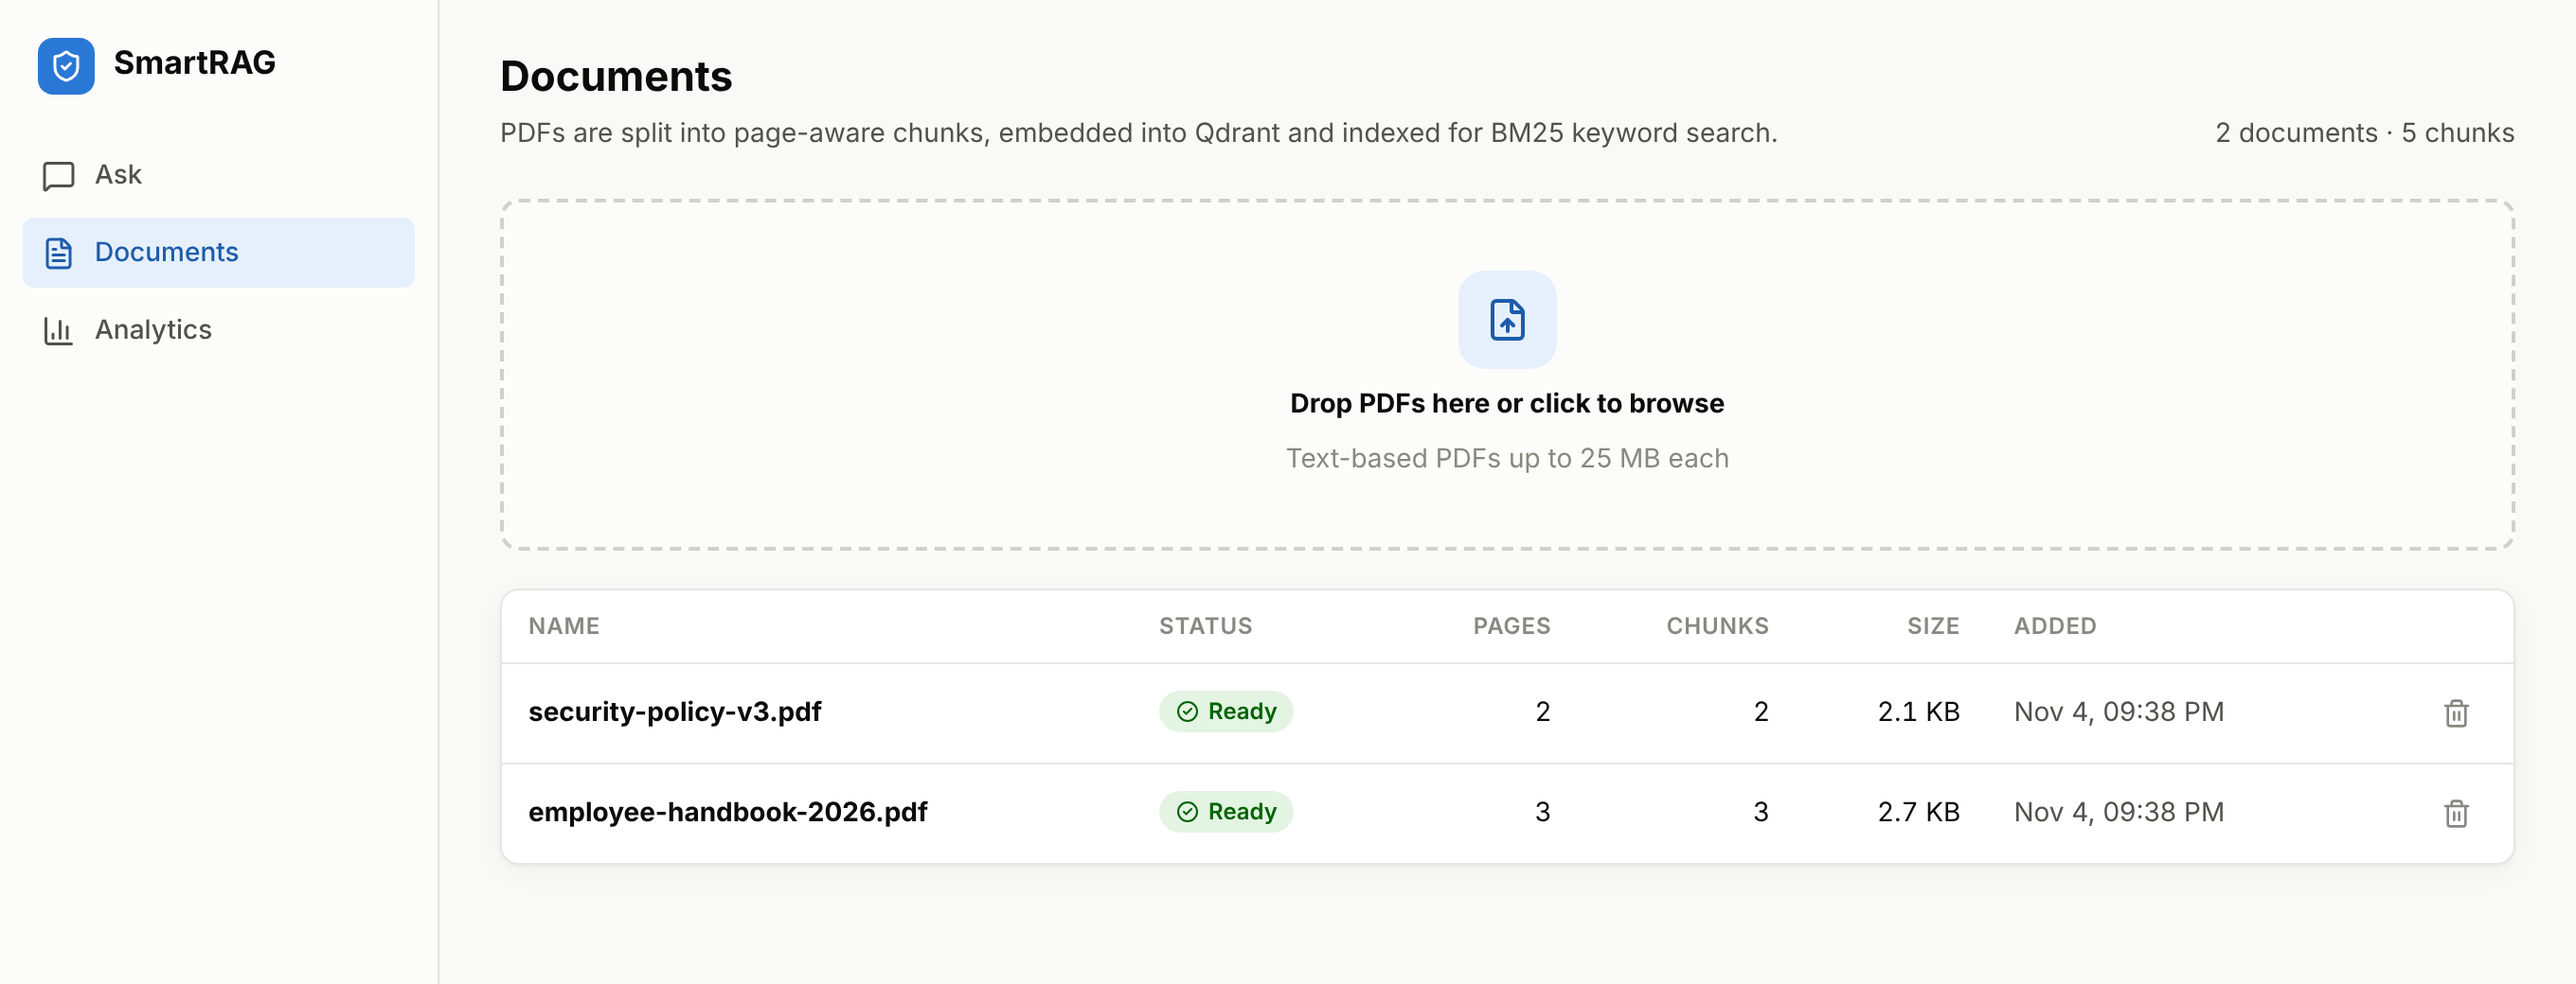
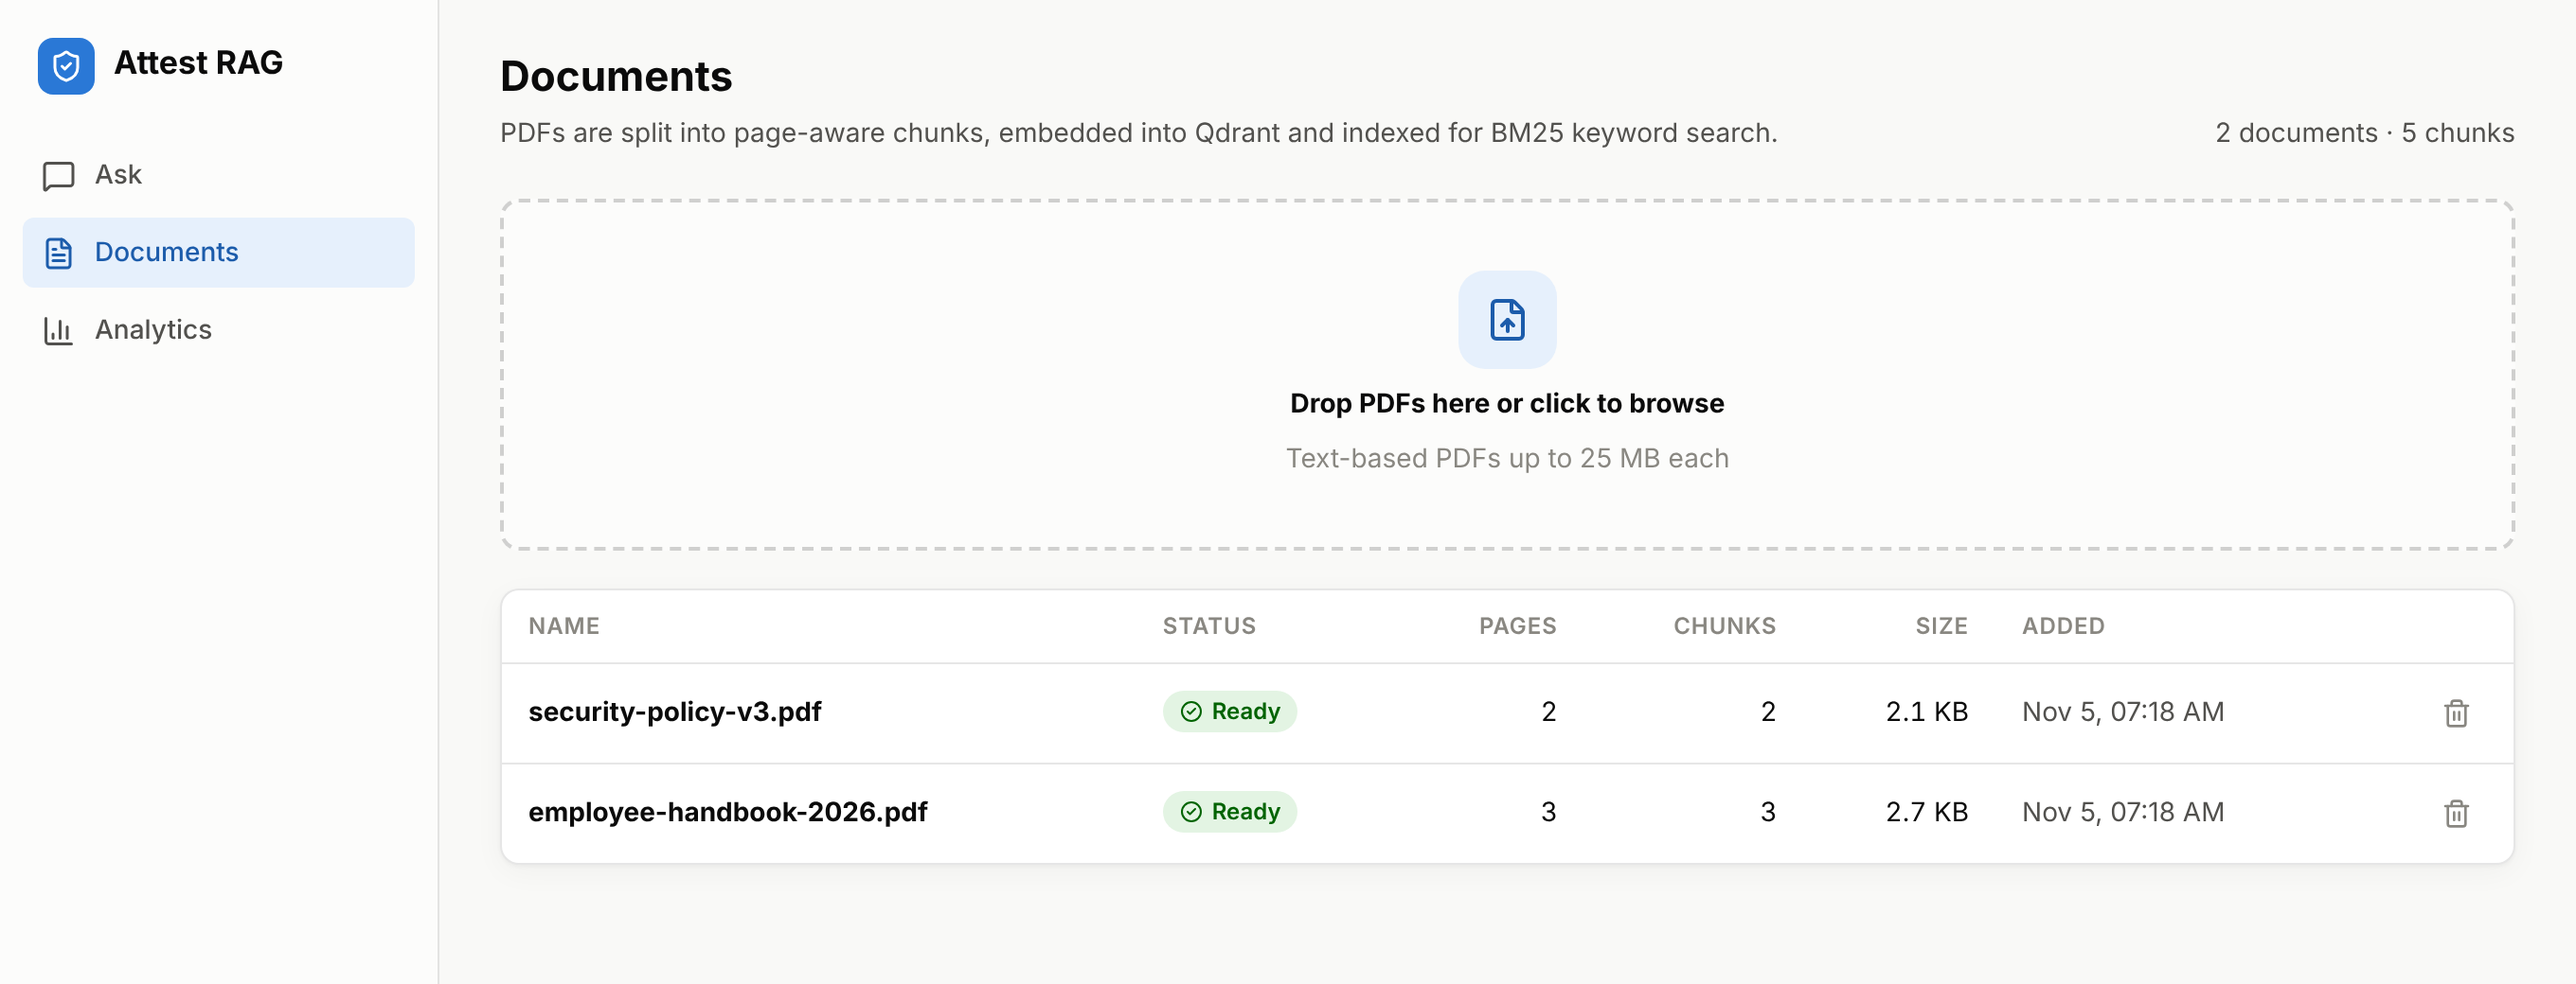
Rename project from SmartRAG to Attest RAG
Update branding across the UI, API title, LLM system prompt, README,
screenshots, package names, docker-compose project, default database
credentials, Qdrant collection and CI/CD workflow definitions.

Claude-Session: https://claude.ai/code/session_011Cba5xVRrxfj8gLr9rzuqS

diff --git a/frontend/index.html b/frontend/index.html
@@ -4,8 +4,8 @@
     <meta charset="UTF-8" />
     <meta name="viewport" content="width=device-width, initial-scale=1.0" />
     <link rel="icon" type="image/svg+xml" href="/favicon.svg" />
-    <meta name="description" content="SmartRAG - enterprise document Q&A with verified answers" />
-    <title>SmartRAG</title>
+    <meta name="description" content="Attest RAG - enterprise document Q&A with verified answers" />
+    <title>Attest RAG</title>
   </head>
   <body>
     <div id="root"></div>

diff --git a/frontend/src/components/Layout.tsx b/frontend/src/components/Layout.tsx
@@ -38,7 +38,7 @@ export default function Layout() {
           <span className="brand-mark">
             <ShieldCheck size={18} />
           </span>
-          SmartRAG
+          Attest RAG
         </div>
         {NAV.map(({ to, label, icon: Icon, end }) => (
           <NavLink key={to} to={to} end={end} className="nav-link">

diff --git a/frontend/src/lib/useChat.ts b/frontend/src/lib/useChat.ts
@@ -26,7 +26,7 @@ export interface AssistantMessage {
 export type Message = UserMessage | AssistantMessage;
 
 function sessionId(): string {
-  const KEY = "smartrag.session";
+  const KEY = "attest-rag.session";
   try {
     const existing = sessionStorage.getItem(KEY);
     if (existing) return existing;

diff --git a/backend/app/core/config.py b/backend/app/core/config.py
@@ -16,7 +16,7 @@ class Settings(BaseSettings):
     )
 
     # --- General -----------------------------------------------------------
-    app_name: str = "SmartRAG"
+    app_name: str = "Attest RAG"
     environment: str = "development"
     log_level: str = "INFO"
     cors_origins: Annotated[list[str], NoDecode] = Field(
@@ -34,10 +34,10 @@ class Settings(BaseSettings):
     llm_temperature: float = 0.1
 
     # --- Storage -----------------------------------------------------------
-    database_url: str = "postgresql+asyncpg://smartrag:smartrag@localhost:5432/smartrag"
+    database_url: str = "postgresql+asyncpg://attestrag:attestrag@localhost:5432/attestrag"
     qdrant_url: str = "http://localhost:6333"
     qdrant_api_key: str | None = None
-    qdrant_collection: str = "smartrag_chunks"
+    qdrant_collection: str = "attestrag_chunks"
 
     # --- Ingestion ---------------------------------------------------------
     chunk_size: int = 1000

diff --git a/backend/app/main.py b/backend/app/main.py
@@ -28,7 +28,7 @@ def create_app(
         await services.startup()
         app.state.services = services
         logger.info(
-            "SmartRAG ready (provider=%s, guardrail_mode=%s, judge=%s)",
+            "Attest RAG ready (provider=%s, guardrail_mode=%s, judge=%s)",
             settings.llm_provider,
             settings.guardrail_mode,
             settings.judge_enabled,
@@ -39,7 +39,7 @@ def create_app(
             await services.shutdown()
 
     app = FastAPI(
-        title="SmartRAG API",
+        title="Attest RAG API",
         version="1.0.0",
         description="Enterprise document QA with hybrid retrieval and LLM-as-a-Judge evaluation.",
         lifespan=lifespan,

diff --git a/backend/app/services/generation.py b/backend/app/services/generation.py
@@ -14,7 +14,7 @@ from app.services.types import RetrievedChunk
 
 NO_ANSWER = "I couldn't find information about that in the uploaded documents."
 
-SYSTEM_PROMPT = """You are SmartRAG, an enterprise document assistant.
+SYSTEM_PROMPT = """You are Attest RAG, an enterprise document assistant.
 
 Answer the user's question using ONLY the numbered context passages provided.
 Rules:

diff --git a/README.md b/README.md
@@ -1,8 +1,8 @@
-# SmartRAG
+# Attest RAG
 
 **Ask questions about your company's PDFs and get answers you can trust, with every claim cited to its source page and checked by an AI judge before you see it.**
 
-SmartRAG is an end-to-end enterprise document Q&A platform. Upload policies, contracts, manuals or reports; ask questions in plain language; get a streamed answer with clickable citations. Behind the scenes, a **hybrid retrieval pipeline** (Qdrant dense vectors + BM25 keyword search) finds the right passages. A second model, the **LLM-as-a-Judge**, then grades every answer for **faithfulness, context relevance and toxicity** and withholds the ones that fail. Every question, source and score is logged to **PostgreSQL** and shown on an **analytics dashboard**.
+Attest RAG is an end-to-end enterprise document Q&A platform. Upload policies, contracts, manuals or reports; ask questions in plain language; get a streamed answer with clickable citations. Behind the scenes, a **hybrid retrieval pipeline** (Qdrant dense vectors + BM25 keyword search) finds the right passages. A second model, the **LLM-as-a-Judge**, then grades every answer for **faithfulness, context relevance and toxicity** and withholds the ones that fail. Every question, source and score is logged to **PostgreSQL** and shown on an **analytics dashboard**.
 
 ![Chat with streamed answer, inline citations, judge verdict and sources](docs/screenshots/chat.png)
 
@@ -10,11 +10,11 @@ SmartRAG is an end-to-end enterprise document Q&A platform. Upload policies, con
 
 ---
 
-## Why SmartRAG?
+## Why Attest RAG?
 
 Plain chatbots over documents have three problems in a business setting:
 
-| Problem | How SmartRAG handles it |
+| Problem | How Attest RAG handles it |
 |---|---|
 | **They miss things.** Vector search alone fails on exact terms like policy codes, clause numbers, product SKUs and names. | **Hybrid retrieval**: semantic search (OpenAI `text-embedding-3-small` in Qdrant) **plus** BM25 keyword search, merged with Reciprocal Rank Fusion. |
 | **They make things up.** LLMs can state plausible facts that are nowhere in your documents. | **LLM-as-a-Judge** checks every answer against the retrieved passages and **blocks** hallucinated or toxic answers before delivery. |
@@ -67,8 +67,8 @@ Plain chatbots over documents have three problems in a business setting:
 You need [Docker](https://docs.docker.com/get-docker/) with the Compose plugin.
 
 ```bash
-git clone https://github.com/maaz7409/SmartRAG.git
-cd SmartRAG
+git clone https://github.com/maaz7409/attest-rag.git
+cd attest-rag
 cp .env.example .env
 # edit .env and set OPENAI_API_KEY=sk-...
 docker compose up --build
@@ -78,7 +78,7 @@ Then open:
 
 | URL | What |
 |---|---|
-| http://localhost:3000 | SmartRAG web app |
+| http://localhost:3000 | Attest RAG web app |
 | http://localhost:8000/docs | Interactive API documentation (Swagger) |
 | http://localhost:6333/dashboard | Qdrant web UI |
 
@@ -120,7 +120,7 @@ npm run dev                              # http://localhost:5173 (proxies /api t
 
 ```bash
 cd backend && pytest -q                  # 37 tests: SQLite + in-memory Qdrant by default
-TEST_DATABASE_URL=postgresql+asyncpg://user:pass@localhost:5432/smartrag_test pytest -q
+TEST_DATABASE_URL=postgresql+asyncpg://user:pass@localhost:5432/attestrag_test pytest -q
 
 cd frontend && npm test                  # SSE parser, citation parser, chat state reducer
 npm run typecheck && npm run build
@@ -140,7 +140,7 @@ All settings are environment variables (see [`.env.example`](.env.example)).
 | `CHAT_MODEL` / `JUDGE_MODEL` | `gpt-4o-mini` | Answer generator / evaluator models |
 | `EMBEDDING_MODEL` / `EMBEDDING_DIM` | `text-embedding-3-small` / `1536` | Dense embedding model and vector size |
 | `DATABASE_URL` | `postgresql+asyncpg://…localhost…` | PostgreSQL connection string |
-| `QDRANT_URL` / `QDRANT_API_KEY` / `QDRANT_COLLECTION` | `http://localhost:6333` / – / `smartrag_chunks` | Vector store (`:memory:` for embedded mode) |
+| `QDRANT_URL` / `QDRANT_API_KEY` / `QDRANT_COLLECTION` | `http://localhost:6333` / – / `attestrag_chunks` | Vector store (`:memory:` for embedded mode) |
 | `CHUNK_SIZE` / `CHUNK_OVERLAP` | `1000` / `150` | Characters per chunk / overlap |
 | `DENSE_TOP_K` / `SPARSE_TOP_K` | `20` / `20` | Candidates fetched from each retriever |
 | `FINAL_TOP_K` | `6` | Passages handed to the LLM after fusion |
@@ -201,7 +201,7 @@ data: {"type":"done","status":"answered","cited":[1],"latency":{"total_ms":1840.
 ## Project structure
 
 ```
-SmartRAG/
+attest-rag/
 ├── backend/                  FastAPI service
 │   ├── app/
 │   │   ├── api/routes/       HTTP endpoints (documents, chat, queries, analytics, health)
@@ -235,5 +235,5 @@ SmartRAG/
 - Scanned, image-only PDFs need OCR first (they are rejected with a clear message).
 - The BM25 index lives in process memory (it is rebuilt from PostgreSQL at start-up). For multi-replica deployments, move keyword search to Qdrant sparse vectors or OpenSearch.
 - The schema is created automatically at start-up. Add Alembic migrations before evolving it in production.
-- There is no authentication yet. Put SmartRAG behind your SSO or reverse proxy, or add OAuth2 to FastAPI.
+- There is no authentication yet. Put Attest RAG behind your SSO or reverse proxy, or add OAuth2 to FastAPI.
 - Possible next steps: cross-encoder re-ranking, query rewriting for follow-up questions, DOCX/HTML ingestion, and per-tenant document permissions.
